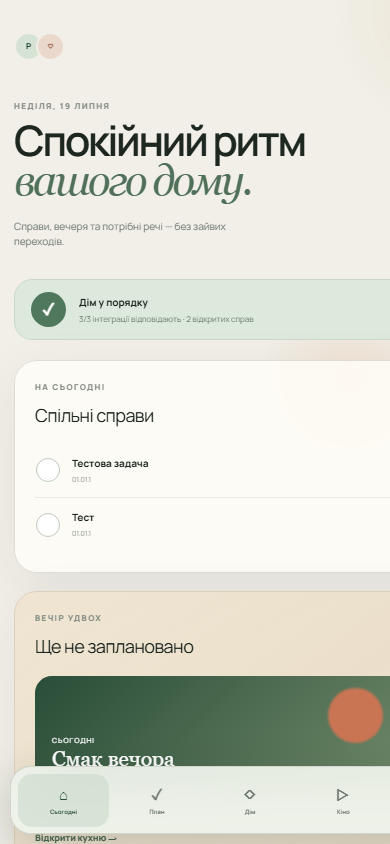
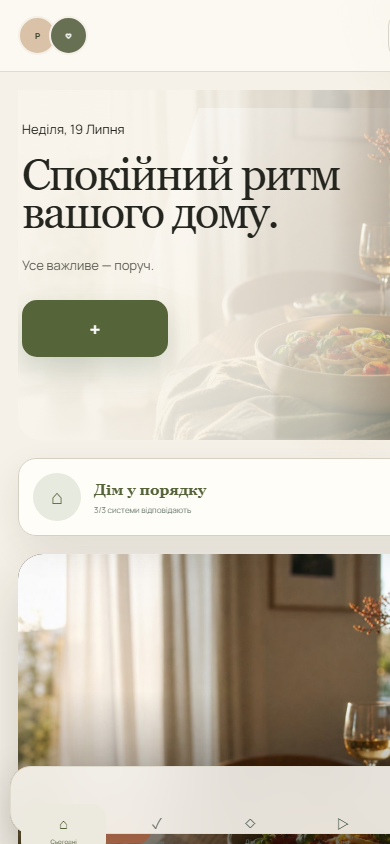
Publish reference-led dashboard evidence

diff --git a/dashboard/app/globals.css b/dashboard/app/globals.css
@@ -8,5 +8,5 @@
 :root{--paper:#f5f1e8;--card:#fffdf8;--ink:#24251f;--muted:#706f66;--green:#56643a;--forest:#46542f;--line:#ddd7ca;--shadow:0 18px 55px rgba(66,55,36,.09)}
 .rail{width:198px;padding:37px 10px 24px;background:rgba(250,248,242,.88);border-color:#e0dbcf}.app{grid-template-columns:198px 1fr}.brand{margin:0 31px 49px;font-family:Georgia,serif}.brand>span{width:27px;height:27px;border-radius:8px;background:var(--green);font-size:13px;box-shadow:none}.brand b{font-size:16px;font-weight:400;white-space:nowrap}.rail nav{gap:8px}.rail nav button{min-height:52px;padding:0 27px;border-radius:0 14px 14px 0;font-size:11px;font-weight:500}.rail nav button:before{left:-10px;height:35px;width:4px}.rail nav button.active{background:#ece9df}.utility{margin-inline:20px;border:0;background:transparent}.workspace{padding:0 38px 48px}.topbar{height:91px;margin:0 -38px 28px;padding:0 38px;border-bottom:1px solid #dfdbd1;background:rgba(255,253,248,.64)}.residents>span{width:39px;height:39px;margin-right:-8px;border-color:#f4f0e7;background:#d9c2a7;color:#3d422e}.residents>span:nth-child(2){background:#677052;color:#fff}.residents p{display:none}.search,.motion{height:47px;padding-inline:17px;border-color:#dad5c9;border-radius:14px;background:#faf8f2;color:#45463f;font-size:10px}.avatar{width:auto;height:47px;padding:0 18px;border:1px solid #dad5c9;border-radius:14px;background:#faf8f2;color:#45463f}.today-scene{position:relative;display:grid;grid-template-columns:minmax(0,1.12fr) minmax(370px,.88fr);grid-template-rows:380px auto;gap:18px 28px}.home-hero{position:relative;min-width:0;overflow:hidden;border-radius:0 0 24px 0;background-image:linear-gradient(90deg,rgba(248,244,235,.98) 0%,rgba(248,244,235,.88) 50%,rgba(248,244,235,.1) 100%),url('/home-evening.jpg');background-size:cover;background-position:42% center;opacity:0;transform:translateY(18px);transition:.7s var(--ease)}.home-hero:after{content:"";position:absolute;right:8%;bottom:0;width:170px;height:135px;border-radius:70% 30% 0 0;background:linear-gradient(145deg,rgba(121,104,73,.12),rgba(82,94,58,.18));filter:blur(2px)}.hero-light{position:absolute;width:290px;height:240px;right:11%;top:5%;background:linear-gradient(135deg,rgba(255,255,255,.5),transparent 55%);clip-path:polygon(20% 0,100% 0,73% 100%,0 72%)}.hero-copy{position:relative;z-index:2;padding:26px 16px}.hero-copy>p{margin:0 0 16px;font-size:13px;text-transform:capitalize}.hero-copy h1{margin:0;font:400 clamp(49px,5.3vw,78px)/.86 Georgia,serif;letter-spacing:-.045em}.hero-copy h1 em{font-style:normal;color:inherit}.hero-copy>span{display:block;margin-top:23px;color:#5f5f57;font-size:15px}.hero-copy .add-main{margin-top:25px;width:146px;height:57px;border-radius:15px;background:var(--green);font-size:12px}.dinner-feature{position:relative;min-width:0;overflow:hidden;border-radius:25px;background:#241b13;color:#fff;box-shadow:0 25px 60px rgba(50,35,22,.18);opacity:0;transform:translateY(18px);transition:.7s .08s var(--ease)}.dinner-feature img{position:absolute;inset:0;width:100%;height:100%;object-fit:cover;object-position:66% center;transition:transform .7s var(--ease)}.dinner-feature:after{content:"";position:absolute;inset:35% 0 0;background:linear-gradient(transparent,rgba(16,11,7,.84))}.dinner-feature:hover img{transform:scale(1.025)}.dinner-feature>div{position:absolute;z-index:2;left:28px;right:28px;bottom:25px}.dinner-feature small{display:inline-block;padding:7px 12px;border-radius:999px;background:#af6848;font-size:7px;letter-spacing:.13em}.dinner-feature h2{margin:11px 0 5px;font:400 34px Georgia,serif}.dinner-feature i{display:block;width:18px;border-top:1px solid rgba(255,255,255,.65)}.dinner-feature p{margin:9px 0 0;font-size:10px}.today-scene>.pulse{grid-column:1;align-self:end;margin:-82px 16px 18px;width:calc(100% - 32px);z-index:5;min-height:90px;padding:17px 22px;border-color:#d6d0c3;background:rgba(255,253,248,.96);box-shadow:0 13px 35px rgba(53,43,30,.09);backdrop-filter:blur(12px)}.pulse>i{width:48px;height:48px;background:#e7eadf;color:var(--green);font-size:20px}.pulse b{font-family:Georgia,serif;font-size:15px;color:var(--green)}.pulse small{font-size:8px}.home-signals{display:flex;gap:5px;margin-left:13px;padding-left:18px;border-left:1px solid #d5d0c4}.home-signals i{width:27px;height:27px;display:grid;place-items:center;border:1px solid #d6d3c8;border-radius:50%;font-style:normal;color:var(--green);font-size:10px}.pulse strong{padding-left:20px;border-left:1px solid #d5d0c4;color:#41423b;font-size:9px}.lower-grid{grid-template-columns:1.15fr .95fr .95fr;margin-top:19px}.lower-grid .panel{min-height:276px;padding:25px;border-radius:20px}.lower-grid .tasks{grid-row:auto}.panel-head h2{font-size:17px;font-weight:550}.panel-head p{font-size:7px}.task-list li{min-height:59px}.task-list b{font-size:11px;font-weight:500}.task-list li>button{width:29px;height:29px;border-color:#7a8169}.shopping-tiles{display:grid;grid-template-columns:1fr 1fr;gap:10px}.shopping-tiles span{min-height:58px;display:flex;align-items:center;padding:12px 14px;border:1px solid #ded9cc;background:#f5f2e9;color:#59613e;font-size:10px}.things-list>div{min-height:54px;border-bottom:1px solid #ebe6da}.things-list>div:last-child{border-bottom:0}.things-list b{font-size:10px}.space-page>header h1,.coming>h1{font-family:Georgia,serif;font-weight:400}.drawer,.palette,.composer{background:#faf7ef;border-color:#ddd7ca}.drawer-links a,.health>div{font-size:10px}.home-hero.is-visible,.dinner-feature.is-visible{opacity:1;transform:none}
 @media(max-width:1100px){.today-scene{grid-template-columns:1fr 390px}.hero-copy h1{font-size:55px}.lower-grid{grid-template-columns:1fr 1fr}.lower-grid .tasks{grid-row:span 2}}
-@media(max-width:900px){.app{display:block}.workspace{padding:0 18px 100px}.topbar{height:72px;margin:0 -18px 18px;padding:0 18px}.today-scene{display:flex;flex-direction:column}.home-hero{min-height:390px;border-radius:0 0 22px 22px;background-position:55% center}.hero-copy{padding:30px 4px}.hero-copy h1{font-size:56px}.dinner-feature{min-height:420px;order:3}.today-scene>.pulse{order:2;width:100%;margin:0;min-height:78px}.home-signals{display:none}.lower-grid{grid-template-columns:1fr}.lower-grid .tasks{grid-row:auto}.rail{width:auto}.rail nav button{border-radius:14px}.rail nav button:before{display:none}}
+@media(max-width:900px){body{overflow-x:hidden}.app{display:block}.workspace{padding:0 18px 100px}.topbar{height:72px;margin:0 0 18px;padding:0}.today-scene{display:flex;flex-direction:column}.home-hero{min-height:390px;border-radius:0 0 22px 22px;background-position:55% center}.hero-copy{padding:30px 4px}.hero-copy h1{font-size:56px}.dinner-feature{min-height:420px;order:3}.today-scene>.pulse{order:2;width:100%;margin:0;min-height:78px}.home-signals{display:none}.lower-grid{grid-template-columns:1fr}.lower-grid .tasks{grid-row:auto}.rail{width:auto}.rail nav button{border-radius:14px}.rail nav button:before{display:none}}
 @media(max-width:540px){.hero-copy h1{font-size:45px}.hero-copy>span{font-size:13px}.home-hero{min-height:350px;background-image:linear-gradient(90deg,rgba(248,244,235,.98),rgba(248,244,235,.82) 67%,rgba(248,244,235,.2)),url('/home-evening.jpg')}.dinner-feature{min-height:390px}.dinner-feature h2{font-size:30px}.today-scene>.pulse{padding:14px}.pulse strong{padding-left:8px;border:0}.lower-grid .panel{min-height:auto}.shopping-tiles{grid-template-columns:1fr 1fr}}

diff --git a/README.md b/README.md
@@ -33,7 +33,7 @@ Cinema and smart-apartment spaces are intentionally labelled as upcoming. They c
 
 ## Verified release metrics
 
-Measured against commit `918c967` on 2026-07-19. Screenshots above are from the deployed home server with live integrations.
+Measured against the residential redesign commit `70c4f9a` on 2026-07-19. Screenshots above are from the deployed home server with live integrations and an original, project-owned evening image.
 
 | Metric | Result | Budget / expectation |
 |---|---:|---:|